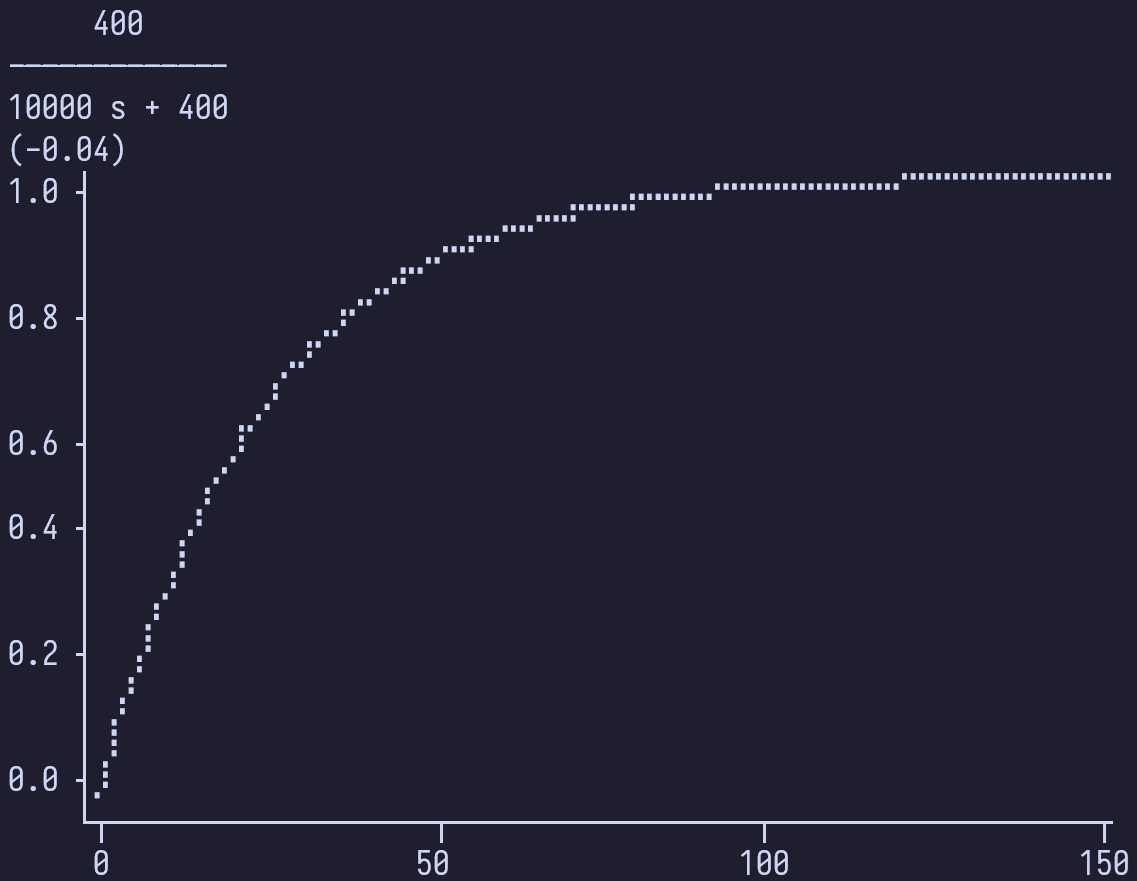
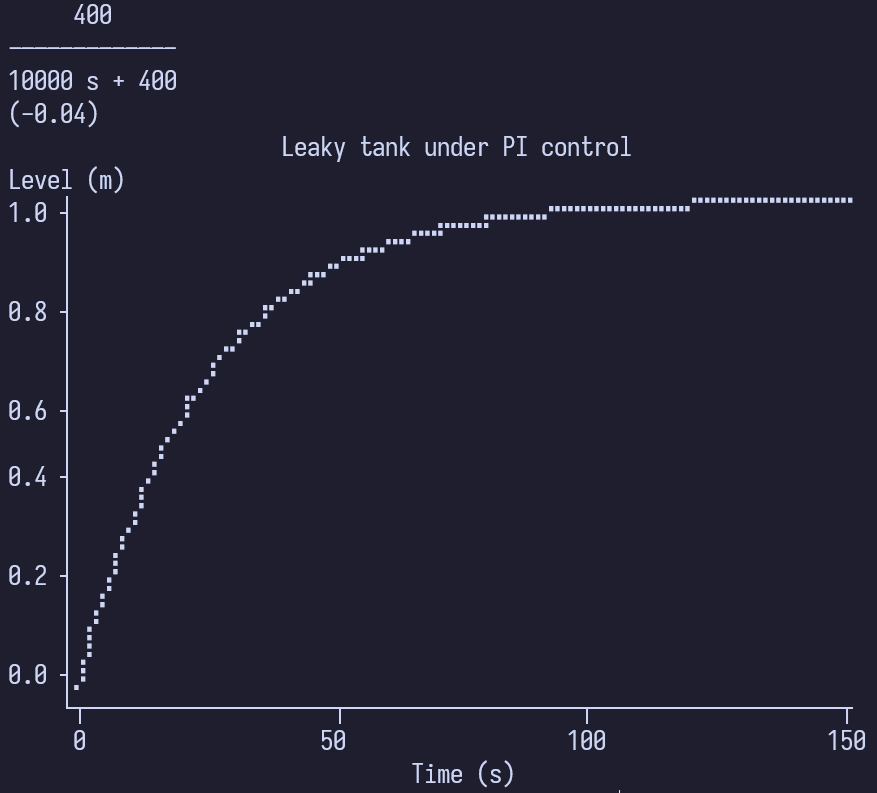
feat: Better leaky tank and second-order examples. Updated README

diff --git a/README.md b/README.md
@@ -32,23 +32,30 @@ print(W)
 print(poles(W))
 
 let t = linspace(0, 150, 151)
-plot(t, step(W, t))
+plot(t, step(W, t), title="Leaky tank under PI control",
+     xlabel="Time (s)", ylabel="Level (m)")
 ```
 
 Output:
 
-<img src="docs/img/leaky-tank-terminal.png" width="569" alt="Closed-loop transfer function 400 / (10000 s + 400), pole at -0.04, and its step response rising from 0 to 1 in about 100 s">
-
-The same plot can be saved as an SVG file, or opened in your browser:
-
-```rust
-plot_svg(t, step(W, t), "leaky_tank.svg")   // Save to a file
-show(t, step(W, t))                         // Open in the browser
-```
-
-<img src="docs/img/leaky-tank.svg" width="640" alt="Step response of the closed loop as an SVG plot: the level rises from 0 to 1, settling in about 100 s">
+<img src="docs/img/leaky-tank-terminal.png" width="640" alt="Closed-loop transfer function 400 / (10000 s + 400), pole at -0.04, and a terminal plot titled Leaky tank under PI control: the level rises from 0 to 1 m in about 100 s">
 
 The tank modelled from first principles, under P, PI and PID control: [`examples/tank_level_control.akt`](examples/tank_level_control.akt).
+
+Plots can also be saved as SVG files with `plot_svg`, or opened in your browser
+with `show`. Several series go in a tuple, and keyword arguments add a title,
+labels and a legend. Here, a series RLC circuit at three resistances:
+
+```rust
+let y = (response(20), response(63), response(120), u)
+show(t*1e3, y, title="Series RLC circuit", xlabel="Time (ms)", ylabel="Voltage (V)",
+     names=("R = 20 Ω", "R = 63 Ω", "R = 120 Ω", "Input"))
+```
+
+<img src="docs/img/rlc-step.svg" width="640" alt="Step responses of a series RLC circuit for three resistances: underdamped with overshoot, critically damped, and overdamped, against the input step at 2 ms">
+
+The full example, with the damping ratio and the critical resistance:
+[`examples/second_order.akt`](examples/second_order.akt).
 
 ## Quick start
 
